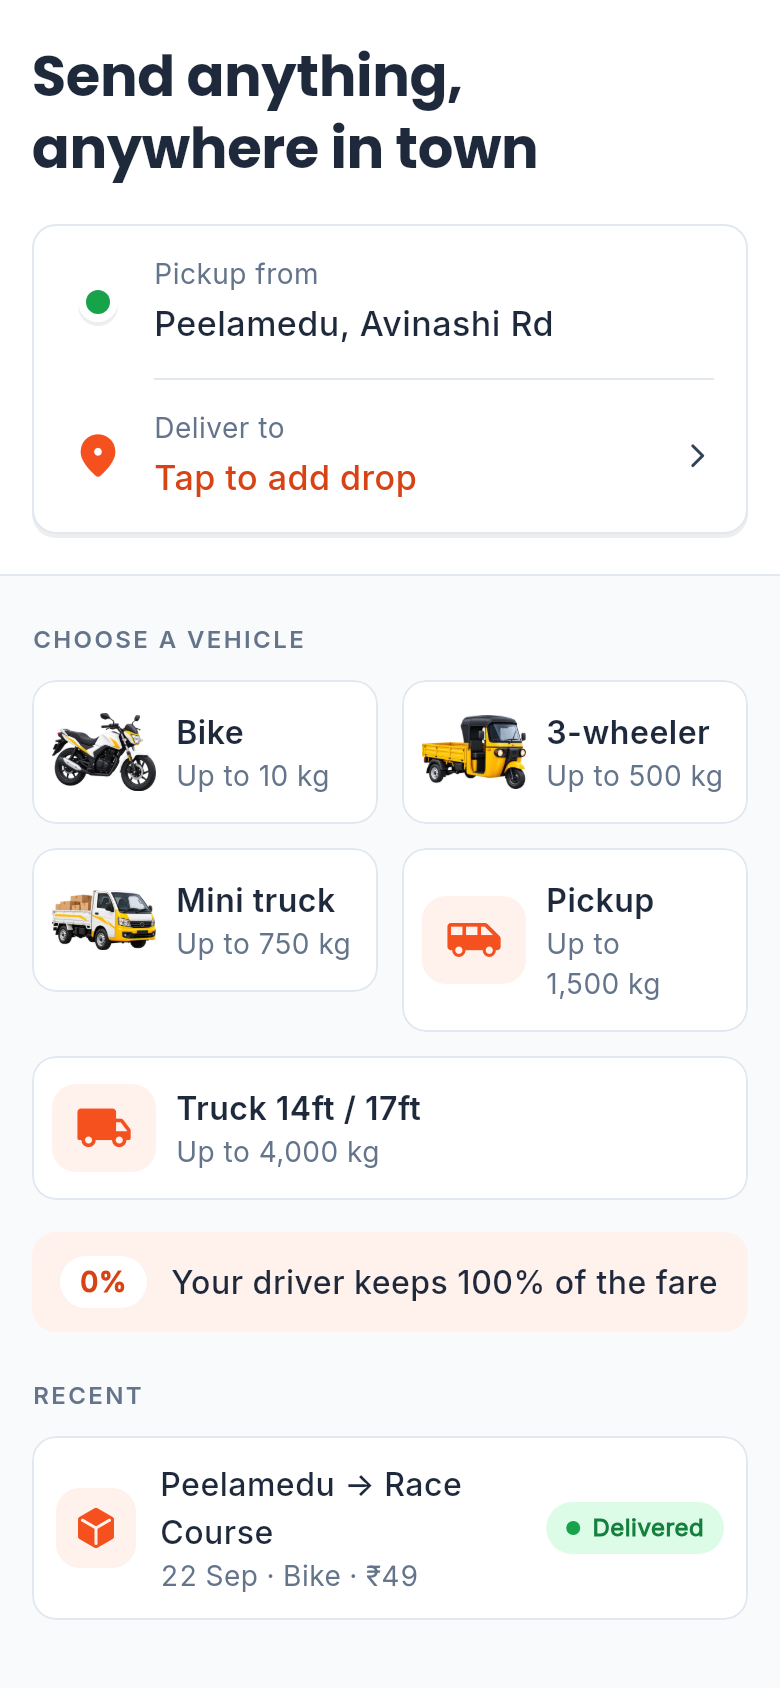
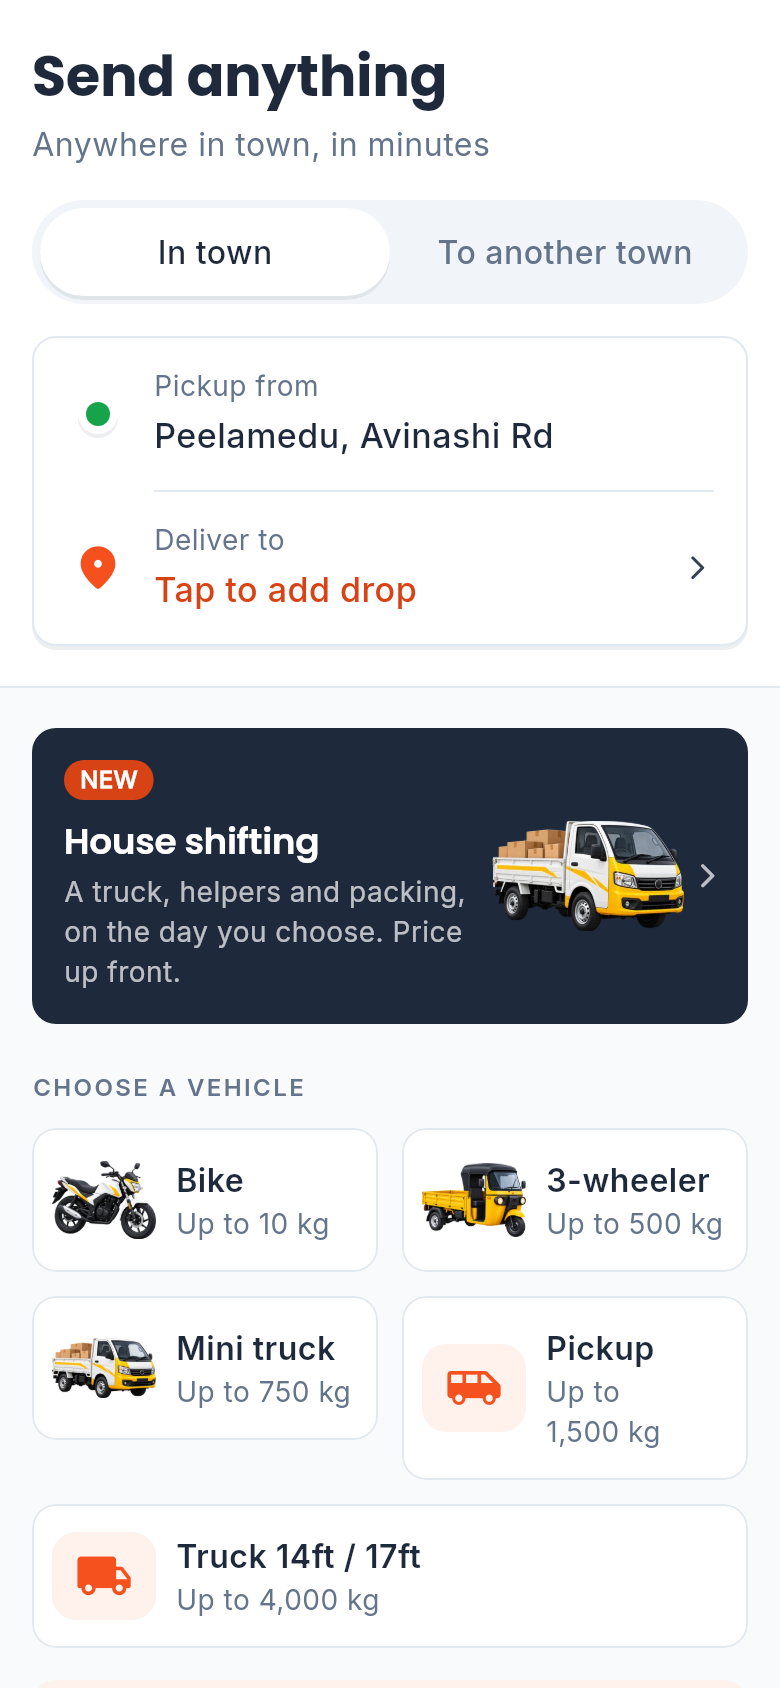
docs(repo): screenshots of house shifting and goods to another town
PH-01 … PH-05 (house shifting, filed under parcel/), the new PP-01 /
PP-03 / PP-06, and the driver's D-20c, D-21c and D-22c.
export_design.py files PH-* frames with the parcel screens.

diff --git a/scripts/export_design.py b/scripts/export_design.py
@@ -39,7 +39,7 @@ def frames(app):
 
 
 def folder(frame_id):
-    if frame_id.startswith('PP-'):
+    if frame_id.startswith('PP-') or frame_id.startswith('PH-'):
         return 'parcel'
     if frame_id.startswith('P-'):
         return 'passenger'
@@ -129,7 +129,7 @@ Notes:
 
 ## Send parcel (passenger app)
 
-{table(lambda i, a: a == 'passenger' and i.startswith('PP-'))}
+{table(lambda i, a: a == 'passenger' and (i.startswith('PP-') or i.startswith('PH-')))}
 
 ## Passenger states
 

diff --git a/docs/design/index.md b/docs/design/index.md
@@ -111,6 +111,11 @@ Notes:
 | PP-08 | Driver assigned · picking up | In the app | [parcel/PP-08.png](parcel/PP-08.png) |
 | PP-09 | Parcel in transit | In the app | [parcel/PP-09.png](parcel/PP-09.png) |
 | PP-10 | Parcel delivered | In the app | [parcel/PP-10.png](parcel/PP-10.png) |
+| PH-01 | House shifting · moving details | Added after the design | [parcel/PH-01.png](parcel/PH-01.png) |
+| PH-02 | House shifting · items (typed) | Added after the design | [parcel/PH-02.png](parcel/PH-02.png) |
+| PH-03 | House shifting · day and extras | Added after the design | [parcel/PH-03.png](parcel/PH-03.png) |
+| PH-04 | House shifting · review | Added after the design | [parcel/PH-04.png](parcel/PH-04.png) |
+| PH-05 | House shifting · booked | Added after the design | [parcel/PH-05.png](parcel/PH-05.png) |
 
 ## Passenger states
 
@@ -159,9 +164,12 @@ Notes:
 | D-19 | Collect payment | In the app | [driver/D-19.png](driver/D-19.png) |
 | D-19c | Collect payment · rental with extra km and time | Added after the design | [driver/D-19c.png](driver/D-19c.png) |
 | D-20 | Incoming delivery request | In the app | [driver/D-20.png](driver/D-20.png) |
+| D-20c | Incoming request · house shifting | Added after the design | [driver/D-20c.png](driver/D-20c.png) |
 | D-21 | Delivery in progress | In the app | [driver/D-21.png](driver/D-21.png) |
+| D-21c | House shifting · at the pickup | Added after the design | [driver/D-21c.png](driver/D-21c.png) |
 | D-22a | Complete delivery with OTP | In the app | [driver/D-22a.png](driver/D-22a.png) |
 | D-22b | Collect from receiver | In the app | [driver/D-22b.png](driver/D-22b.png) |
+| D-22c | Collect · house shifting | Added after the design | [driver/D-22c.png](driver/D-22c.png) |
 | D-23 | Earnings | In the app | [driver/D-23.png](driver/D-23.png) |
 | D-23b | Earnings · trip detail sheet | In the app | [driver/D-23b.png](driver/D-23b.png) |
 | D-24 | Plan · active | Off while the app is free (paid plans switched off) | [driver/D-24.png](driver/D-24.png) |
